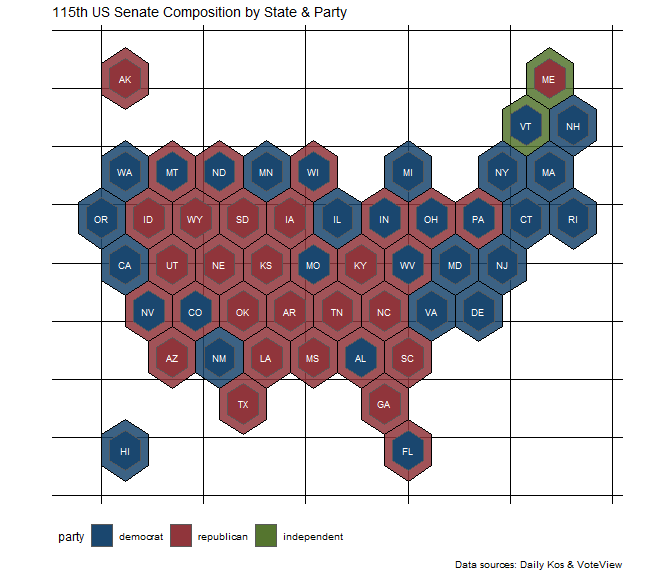
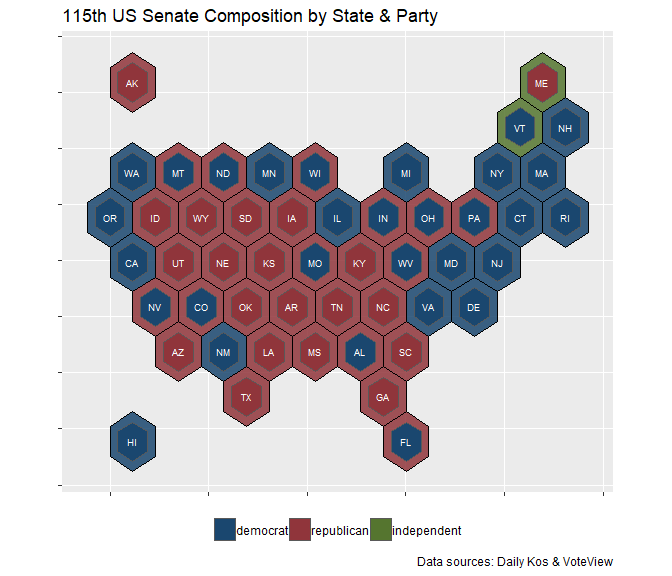
re

diff --git a/README.md b/README.md
@@ -546,14 +546,15 @@ dailykos_shapes$cds %>%
   inner_join(dailykos_pres_flips)%>%
   ggplot() + 
   geom_sf(aes(fill = reorder(flips, -sum)),
-           color = 'white', alpha = .85) + 
+           color = 'gray', alpha = .85) + 
     geom_sf(data=dailykos_shapes$states, 
           fill = NA, 
           show.legend = F, 
           color="black", 
-          lwd=.65) +
+          lwd=.7) +
     ggsflabel::geom_sf_text(data = dailykos_shapes$states,
-                                aes(label = STATE), size = 2.5) +
+                                aes(label = STATE), size = 2.5,
+                            color='white') +
   ggthemes::scale_fill_stata()+
   theme(axis.title.x=element_blank(),
         axis.text.x=element_blank(),
@@ -607,8 +608,12 @@ dailykos_tile$outer %>%
                                  aes(label = State), size = 2.5,
                           color = 'white') +
   ggthemes::scale_fill_stata()+
-  ggthemes::theme_map() +
-  theme(legend.position = 'bottom') +
+  theme(axis.title.x=element_blank(),
+        axis.text.x=element_blank(),
+        axis.title.y=element_blank(),
+        axis.text.y=element_blank(),
+        legend.title=element_blank(),
+        legend.position = 'bottom') +
   labs(title = "115th US Senate Composition by State & Party",
        caption = 'Data sources: Daily Kos & VoteView')
 ```
